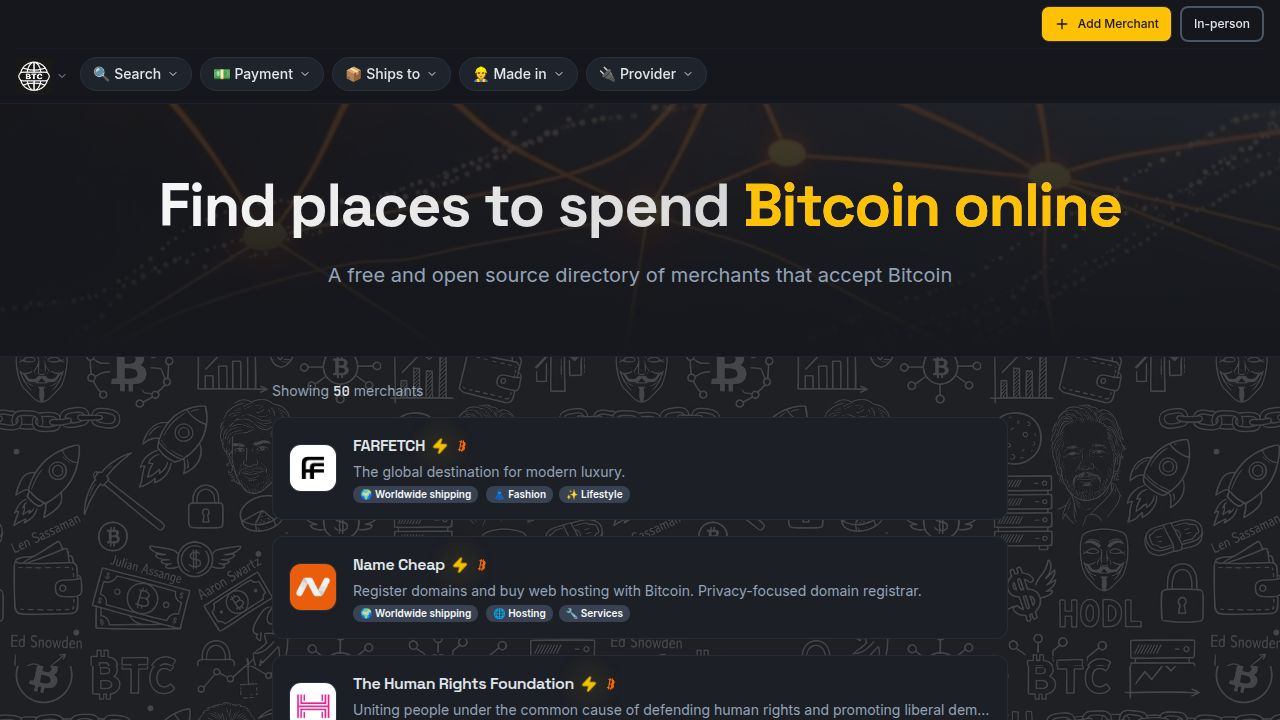
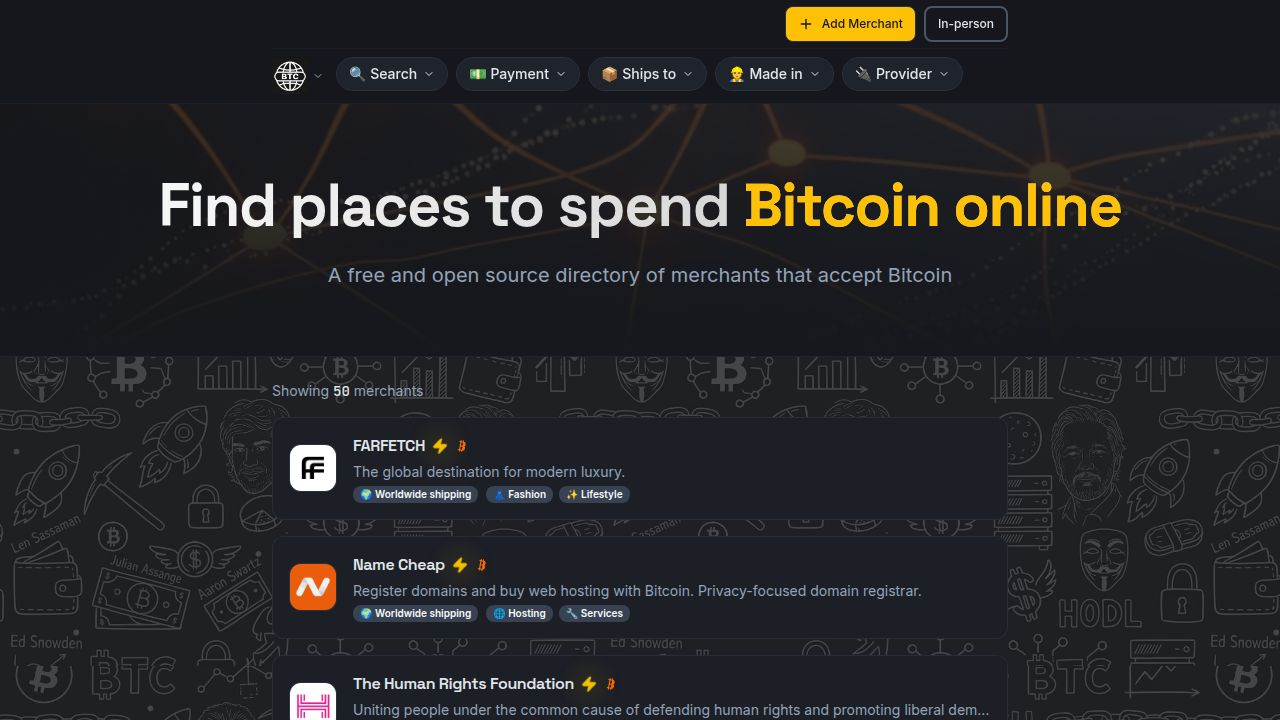
Constrain the navigation bar to match the merchant card width
Update the navbar container to use max-w-3xl and mx-auto for consistent content width.

Replit-Commit-Author: Agent
Replit-Commit-Session-Id: 29147302-8f43-4ddf-b788-2fc161be13b8
Replit-Commit-Checkpoint-Type: full_checkpoint
Replit-Commit-Event-Id: 677ab9d2-9485-46ae-b987-52ae422a7aee
Replit-Commit-Screenshot-Url: https://storage.googleapis.com/screenshot-production-us-central1/836d56c9-18a9-46ad-9972-6a9fa87541a8/29147302-8f43-4ddf-b788-2fc161be13b8/Eu9QvTP
Replit-Helium-Checkpoint-Created: true

diff --git a/client/src/components/navbar.tsx b/client/src/components/navbar.tsx
@@ -57,7 +57,7 @@ export default function Navbar({ onSearch, filtersSlot }: NavbarProps) {
 
   return (
     <nav className="sticky top-0 z-50 w-full border-b border-border/40 bg-background/80 backdrop-blur-xl supports-[backdrop-filter]:bg-background/60">
-      <div className="container px-4">
+      <div className="max-w-3xl mx-auto px-4">
         <div className="flex items-center justify-end py-1.5 gap-2 border-b border-border/20">
           <Dialog open={isAddOpen} onOpenChange={setIsAddOpen}>
             <DialogTrigger asChild>
